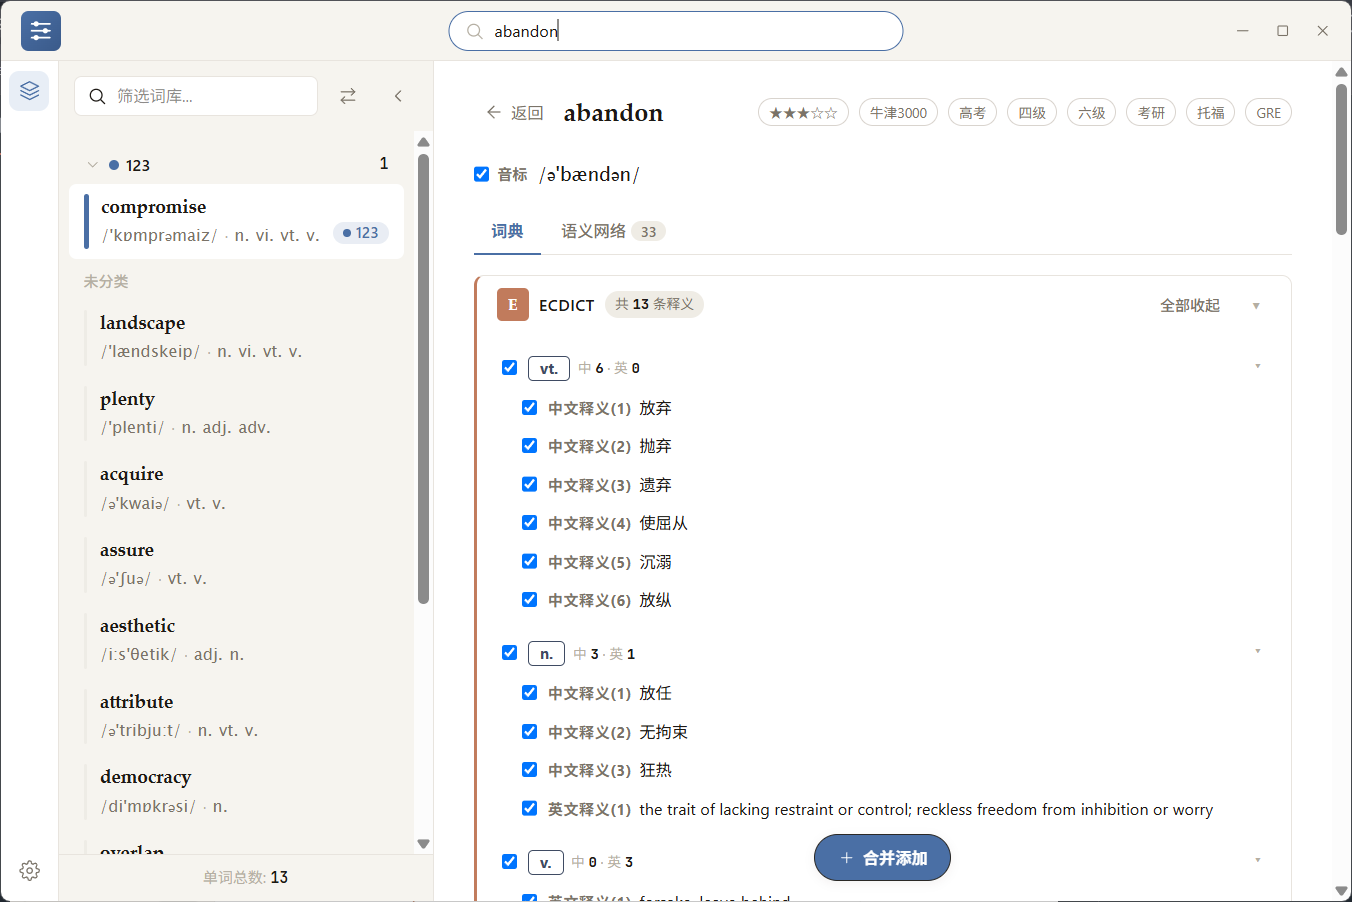
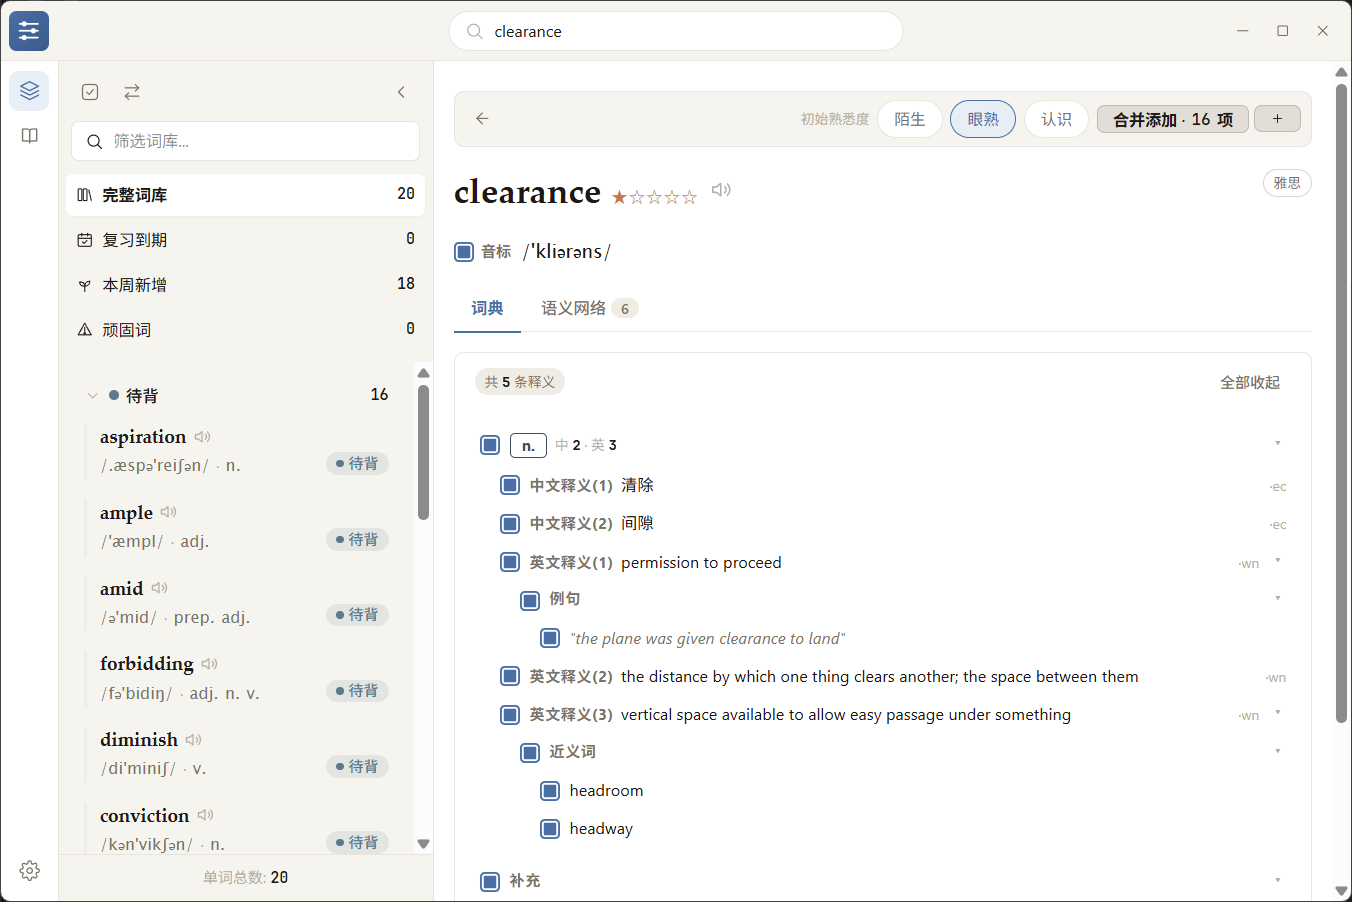
docs: 截图更新到 v0.7.1，并补入今日复习与设置·复习两张新图
五张旧图（9 月 14 日的 v0.5.2 时期）原地替换：主界面补上四个智能视图与侧栏行内
喇叭，词典返回页换成合并后的单卡（行尾 ·ec / ·wn、卡头「共 N 条释义 + 全部收起」、
导航条「合并添加 · N 项」+「＋」），语义网络与工作台补上新的导航条与侧栏，
设置·数据换成八分区的当前形态（顺带去掉了旧图里泄露的桌面路径）。

新增两张插进截图节：今日复习概览排在编辑工作台之后，设置·复习与设置·数据相邻。

diff --git a/README.md b/README.md
@@ -82,7 +82,7 @@ Wordsett 是一款个人词汇知识管理桌面应用。它把**离线词典查
 
 ## 截图
 
-**主界面 · 词库视图** —— 三栏布局
+**主界面 · 词库视图** —— 三栏布局、侧栏四个智能视图与行内发音喇叭
 
 ![主界面](screenshots/main.png)
 
@@ -98,7 +98,15 @@ Wordsett 是一款个人词汇知识管理桌面应用。它把**离线词典查
 
 ![编辑工作台](screenshots/workbench.png)
 
-**设置 · 数据** —— 词库导入导出
+**今日复习 · 概览** —— 左栏待复习计数与新词额度，右栏遗忘曲线、明日压力、熟知度分布与正确率四张卡
+
+![今日复习](screenshots/review.png)
+
+**设置 · 复习** —— 听辨音色、期望记忆保留率、薄弱词阈值、新词额度与队列上限
+
+![复习设置](screenshots/review-config.png)
+
+**设置 · 数据** —— 数据存储位置与词库导入导出
 
 ![导入导出](screenshots/data.png)
 
